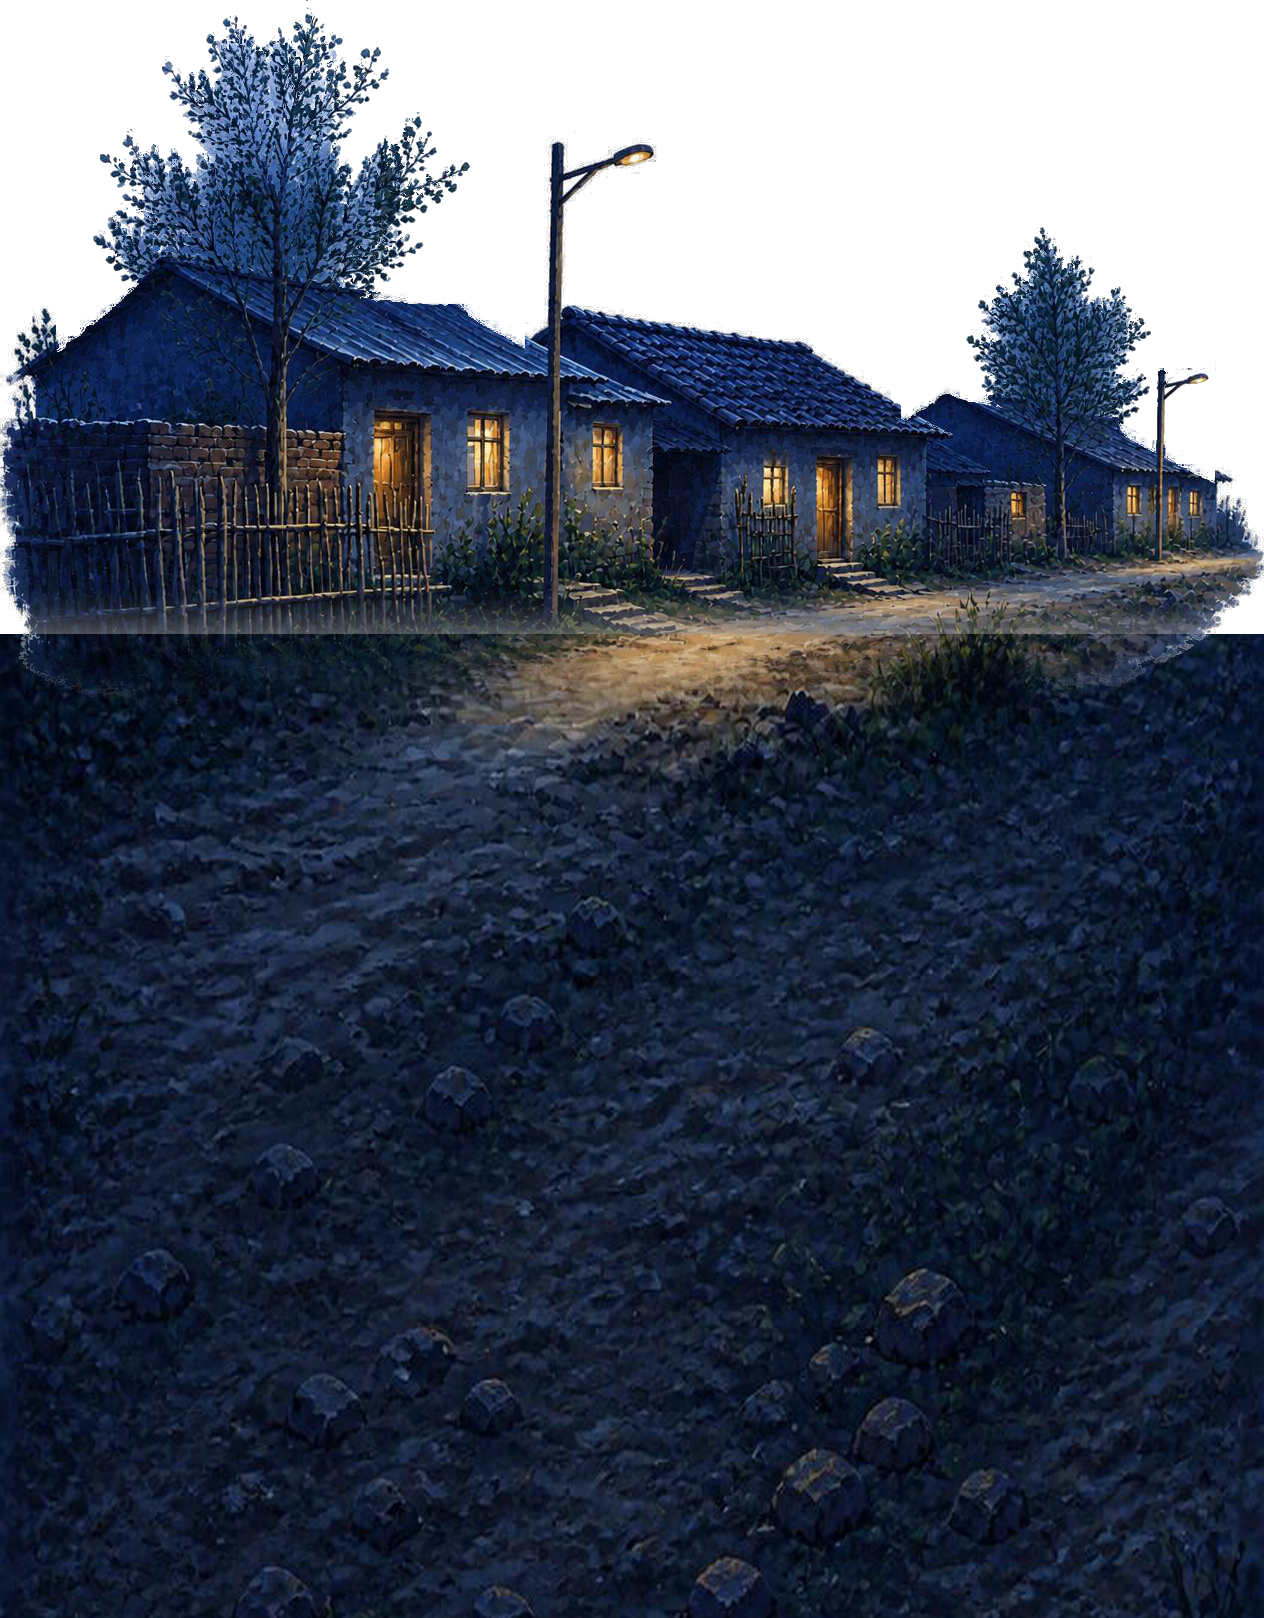
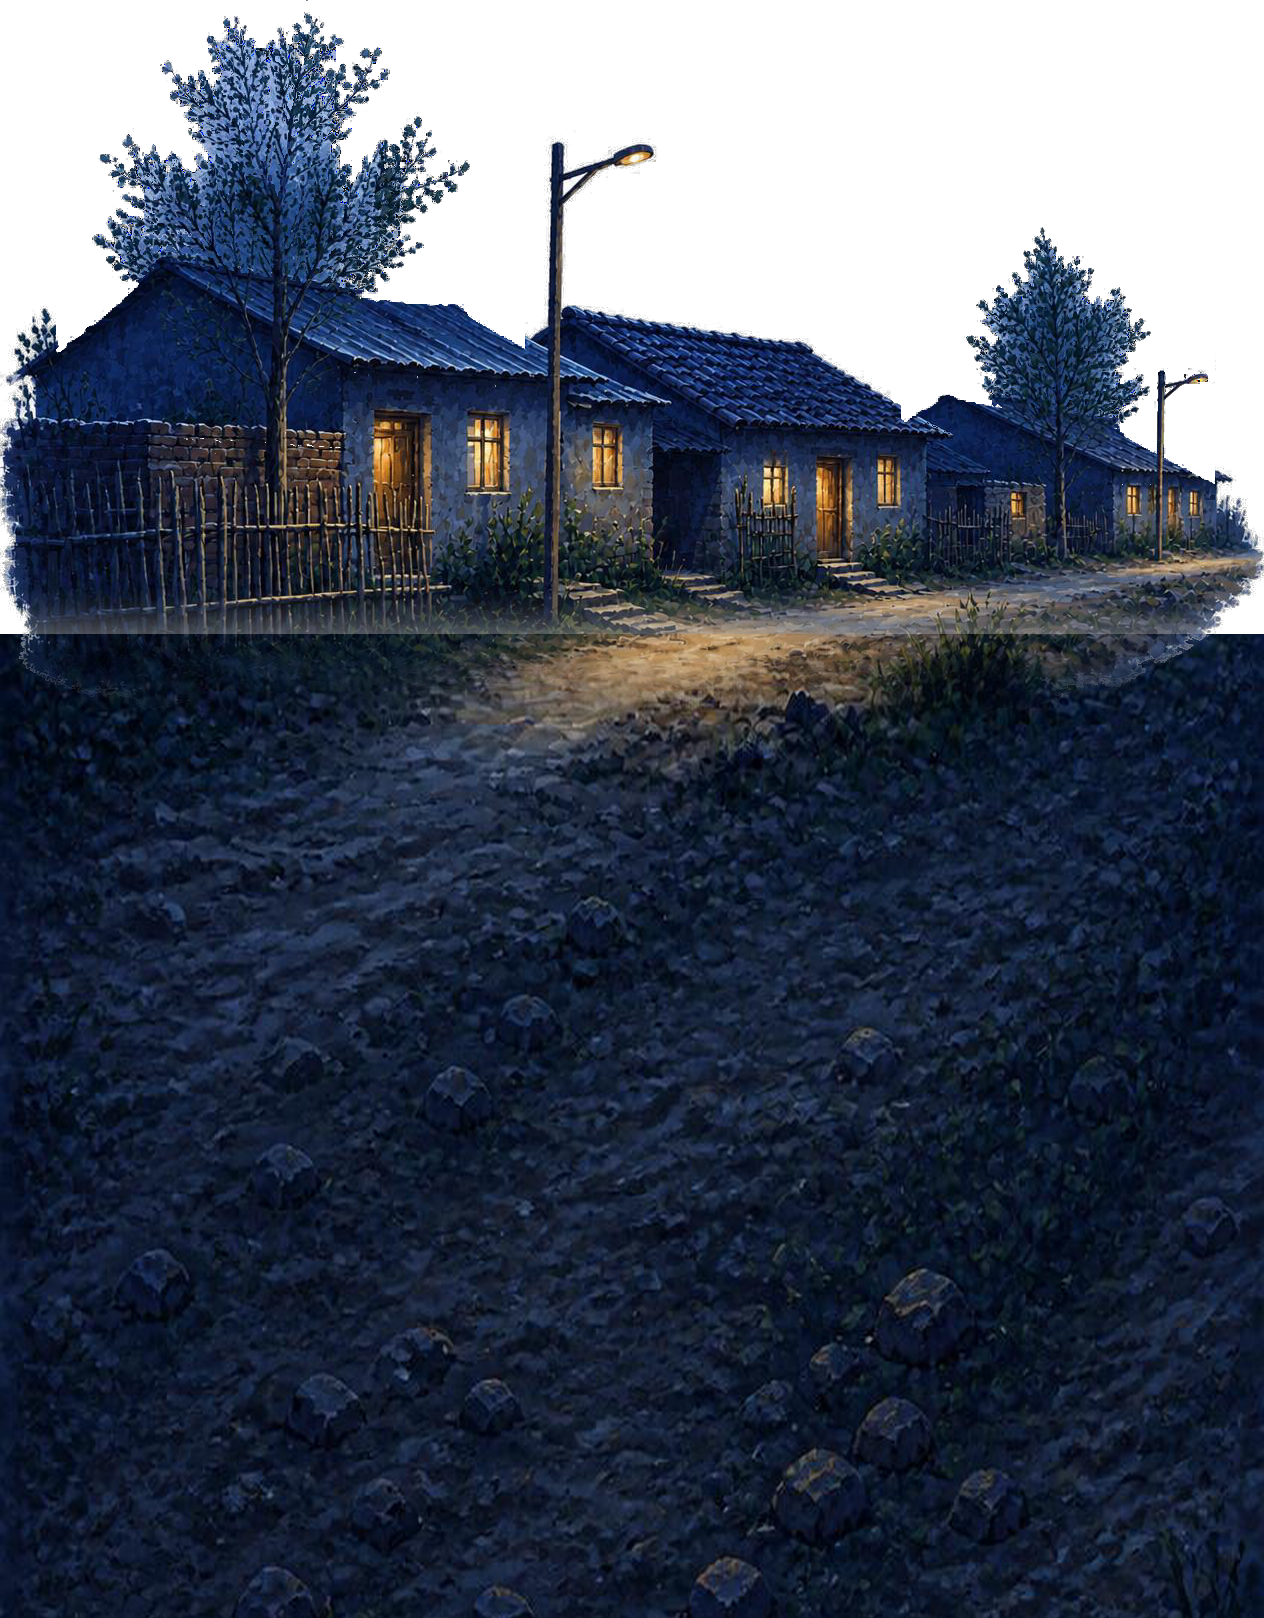
Stabilize responsive parallax composition

diff --git a/src/components/village-parallax-scene.tsx b/src/components/village-parallax-scene.tsx
@@ -12,6 +12,7 @@ import { useReducedMotion } from "framer-motion";
 const PHASE_A_END = 0.38; // parallax assembly
 const PHASE_B_END = 0.68; // position locked, day -> night
 // phase C (0.68 -> 1): the following page rises over this pinned scene
+const SCENE_SCROLL_VH = 320;
 
 // Sun/moon share one quarter-circle arc: a center point below the
 // mountains, swept from 180deg (level with the center, off to the side)
@@ -36,6 +37,14 @@ function phaseT(start: number, end: number): string {
 function assembleY(fromVh: number, toVh: number): string {
   const t = phaseT(0, PHASE_A_END);
   return `calc((${fromVh} + (${toVh - fromVh}) * ${t}) * 1vh)`;
+}
+
+// The illustrations are naturally sized by viewport width. On ultrawide
+// windows that would also make them climb much too high. This correction
+// preserves their horizontal full bleed while keeping each tier's vertical
+// anchor equivalent to the approved ~1.36:1 reference viewport.
+function responsiveDepthOffset(artHeightVw: number, referenceHeightVh: number): string {
+  return `max(0px, calc(${artHeightVw}vw - ${referenceHeightVh}vh))`;
 }
 
 const DAYNIGHT_T = phaseT(PHASE_A_END, PHASE_B_END);
@@ -178,10 +187,47 @@ export function VillageParallaxScene() {
     const track = trackRef.current;
     if (!track) return;
     let raf = 0;
+    let celestialRaf = 0;
+    let celestialTarget = 0;
+    let celestialCurrent = 0;
+
+    const paintCelestial = (daynightT: number) => {
+      const sunPhase = Math.min(1, Math.max(0, daynightT / 0.5));
+      const moonPhase = Math.min(1, Math.max(0, (daynightT - 0.5) / 0.5));
+      const sunEase = sunPhase * sunPhase;
+      const moonEase = 1 - (1 - moonPhase) * (1 - moonPhase);
+      const arcOffset = (tArc: number) => {
+        const angleDeg = ARC_START_DEG + (ARC_END_DEG - ARC_START_DEG) * tArc;
+        const angleRad = (angleDeg * Math.PI) / 180;
+        return { x: ARC_RADIUS_VH * Math.cos(angleRad), y: -ARC_RADIUS_VH * Math.sin(angleRad) };
+      };
+      const sunArc = arcOffset(1 - sunEase);
+      const moonArc = arcOffset(moonEase);
+      track.style.setProperty("--sun-x", sunArc.x.toFixed(3));
+      track.style.setProperty("--sun-y", sunArc.y.toFixed(3));
+      track.style.setProperty("--moon-x", moonArc.x.toFixed(3));
+      track.style.setProperty("--moon-y", moonArc.y.toFixed(3));
+      track.style.setProperty("--sun-opacity", Math.min(1, Math.max(0, (1 - sunPhase) * 6)).toFixed(3));
+      track.style.setProperty("--moon-opacity", Math.min(1, Math.max(0, moonPhase * 6)).toFixed(3));
+    };
+
+    const animateCelestial = () => {
+      celestialCurrent += (celestialTarget - celestialCurrent) * 0.22;
+      if (Math.abs(celestialTarget - celestialCurrent) < 0.0001) celestialCurrent = celestialTarget;
+      paintCelestial(celestialCurrent);
+      if (celestialCurrent !== celestialTarget) {
+        celestialRaf = requestAnimationFrame(animateCelestial);
+      } else {
+        celestialRaf = 0;
+      }
+    };
+
     const update = () => {
       const rect = track.getBoundingClientRect();
-      const total = rect.height - window.innerHeight;
-      const progress = total > 0 ? Math.min(1, Math.max(0, -rect.top / total)) : 0;
+      // Keep the original movement speed even though the track now includes
+      // an additional sticky tail for the page-over-scene reveal.
+      const timeline = window.innerHeight * (SCENE_SCROLL_VH / 100);
+      const progress = timeline > 0 ? Math.min(1, Math.max(0, -rect.top / timeline)) : 0;
       const daynightT = Math.min(1, Math.max(0, (progress - PHASE_A_END) / (PHASE_B_END - PHASE_A_END)));
       // Sun and moon each get their OWN half of the transition (0-0.5 and
       // 0.5-1) for their full arc traversal, not the whole 0-1 span — so
@@ -190,13 +236,6 @@ export function VillageParallaxScene() {
       // rises through its own half. Splitting it this way is what makes
       // them visibly swap AT the horizon instead of the sun fading out
       // while still high up and the moon fading in already part-risen.
-      const sunPhase = Math.min(1, Math.max(0, daynightT / 0.5));
-      const moonPhase = Math.min(1, Math.max(0, (daynightT - 0.5) / 0.5));
-      // Ease-IN for the dip (accelerating down), ease-OUT for the rise
-      // (decelerating into place) — reversible for free since both are
-      // pure functions of scroll position, not stateful velocity.
-      const sunEase = sunPhase * sunPhase;
-      const moonEase = 1 - (1 - moonPhase) * (1 - moonPhase);
       track.style.setProperty("--scene-progress", progress.toString());
       // Quarter-circle arc: a shared center sits below the mountains: at
       // t_arc=0 the point is level with the center, off to one side
@@ -205,25 +244,8 @@ export function VillageParallaxScene() {
       // is a 90 degree arc that reads as rising up AND to the right, not
       // a straight vertical line — computed here (not in CSS) since plain
       // calc() has no trig functions to rely on.
-      const arcOffset = (tArc: number) => {
-        const angleDeg = ARC_START_DEG + (ARC_END_DEG - ARC_START_DEG) * tArc;
-        const angleRad = (angleDeg * Math.PI) / 180;
-        return { x: ARC_RADIUS_VH * Math.cos(angleRad), y: -ARC_RADIUS_VH * Math.sin(angleRad) };
-      };
-      const sunArc = arcOffset(1 - sunEase);
-      const moonArc = arcOffset(moonEase);
-      track.style.setProperty("--sun-x", sunArc.x.toFixed(2));
-      track.style.setProperty("--sun-y", sunArc.y.toFixed(2));
-      track.style.setProperty("--moon-x", moonArc.x.toFixed(2));
-      track.style.setProperty("--moon-y", moonArc.y.toFixed(2));
-      // Opacity stays fully visible through most of the dip/rise, fading
-      // only right at the horizon end of each body's own phase — reads as
-      // "sinks down, then disappears behind the mountains" / "emerges
-      // from behind the mountains, then rises", not an independent fade.
-      const sunOpacity = Math.min(1, Math.max(0, (1 - sunPhase) * 6));
-      const moonOpacity = Math.min(1, Math.max(0, moonPhase * 6));
-      track.style.setProperty("--sun-opacity", sunOpacity.toFixed(3));
-      track.style.setProperty("--moon-opacity", moonOpacity.toFixed(3));
+      celestialTarget = daynightT;
+      if (!celestialRaf) celestialRaf = requestAnimationFrame(animateCelestial);
       raf = 0;
     };
     const onScroll = () => {
@@ -236,6 +258,7 @@ export function VillageParallaxScene() {
       window.removeEventListener("scroll", onScroll);
       window.removeEventListener("resize", onScroll);
       if (raf) cancelAnimationFrame(raf);
+      if (celestialRaf) cancelAnimationFrame(celestialRaf);
     };
   }, []);
 
@@ -309,7 +332,7 @@ export function VillageParallaxScene() {
   const moonRestTop = `${ARC_CENTER_Y_VH}vh`;
 
   return (
-    <div ref={trackRef} className="relative h-[420vh]" style={{ ["--scene-progress" as string]: "0" }}>
+    <div ref={trackRef} className="relative h-[570vh]" style={{ ["--scene-progress" as string]: "0" }}>
       <section
         ref={stageRef}
         className="sticky top-0 h-screen w-full overflow-hidden"
@@ -359,7 +382,7 @@ export function VillageParallaxScene() {
           aria-hidden
           className="pointer-events-none absolute aspect-square w-[10vw] max-w-[132px] min-w-[64px]"
           style={{
-            zIndex: 3,
+            zIndex: 1,
             left: reduceMotion ? sunRestLeft : arcLeft("--sun-x"),
             top: reduceMotion ? sunRestTop : arcTop("--sun-y"),
             opacity: reduceMotion ? 1 : "var(--sun-opacity, 1)",
@@ -376,7 +399,7 @@ export function VillageParallaxScene() {
           aria-hidden
           className="pointer-events-none absolute aspect-square w-[9vw] max-w-[118px] min-w-[58px]"
           style={{
-            zIndex: 3,
+            zIndex: 1,
             left: reduceMotion ? moonRestLeft : arcLeft("--moon-x"),
             top: reduceMotion ? moonRestTop : arcTop("--moon-y"),
             opacity: reduceMotion ? 0 : "var(--moon-opacity, 0)",
@@ -397,7 +420,7 @@ export function VillageParallaxScene() {
           aria-hidden
           className="pointer-events-none absolute inset-0 overflow-hidden"
           style={{
-            zIndex: 3,
+            zIndex: 1,
             opacity: reduceMotion ? 0.74 : `calc(1 - ${phaseT(0.18, 0.3)})`,
             transform: reduceMotion
               ? "none"
@@ -439,7 +462,7 @@ export function VillageParallaxScene() {
           entranceStyle={off(36)}
           enteredStyle={on}
           delayMs={0}
-          scrollY={assembleY(26, 23)}
+          scrollY={`calc(${assembleY(26, 23)} + ${responsiveDepthOffset(61.8, 84)})`}
           pointerAmp={[6, 3]}
           scaleBuffer={1.04}
         >
@@ -468,7 +491,7 @@ export function VillageParallaxScene() {
           entranceStyle={off(36)}
           enteredStyle={on}
           delayMs={180}
-          scrollY={assembleY(4, -9)}
+          scrollY={`calc(${assembleY(4, -9)} + ${responsiveDepthOffset(26.1, 36)})`}
           pointerAmp={[13, 6]}
           scaleBuffer={1.14}
         >
@@ -492,7 +515,7 @@ export function VillageParallaxScene() {
         <div aria-hidden className="pointer-events-none absolute bottom-0 left-0 w-full" style={{ zIndex: 4 }}>
           <div
             className="relative origin-bottom scale-[1.14]"
-            style={{ transform: `translate3d(${pointer(22, 4).x}, calc(${assembleY(85, 3)} + ${pointer(22, 4).y}), 0)` }}
+            style={{ transform: `translate3d(${pointer(22, 4).x}, calc(${assembleY(85, 3)} + ${responsiveDepthOffset(62.6, 86)} + ${pointer(22, 4).y}), 0)` }}
           >
             <DayNightPair
               day="/images/parallax-main-village-day.png"

diff --git a/scripts/clean-foreground-foliage.js b/scripts/clean-foreground-foliage.js
@@ -133,12 +133,15 @@ async function recoverNightFoliage(rawNightPath, nightPath) {
   }
 
   const output = Buffer.from(night.data);
-  // The source background is a sampled #fdfdfd, not pure white. Remove only
-  // pixels still close to that canvas colour. This is a subtractive cleanup
-  // of the remaining matte rather than a new silhouette extraction, so every
-  // already-cut leaf and branch keeps its existing coverage and colour.
+  // The source background is sampled #fdfdfd. A pixel remains foliage when
+  // either its distance from that canvas OR its blue/green chroma supports
+  // it. Combining both signals removes neutral pale inter-branch islands but
+  // retains thin coloured twigs and leaf edges that distance alone can lose.
   const backgroundLevel = 253;
-  const matteDistance = 30;
+  const transparentDistance = 100;
+  const opaqueDistance = 180;
+  const transparentChroma = 12;
+  const opaqueChroma = 38;
 
   for (let y = 0; y < Math.min(raw.info.height, HEIGHT); y += 1) {
     for (let x = 0; x < WIDTH; x += 1) {
@@ -149,12 +152,13 @@ async function recoverNightFoliage(rawNightPath, nightPath) {
       const red = raw.data[sourcePixel];
       const green = raw.data[sourcePixel + 1];
       const blue = raw.data[sourcePixel + 2];
-      const whiteDistance = backgroundLevel - Math.min(red, green, blue);
-      if (whiteDistance > matteDistance) continue;
-
-      let alpha = Math.max(0, Math.min(1, whiteDistance / matteDistance));
-      alpha = alpha * alpha * (3 - 2 * alpha);
-      const cleanedAlpha = Math.min(output[outputPixel + 3], Math.round(alpha * 255));
+      const whiteDistance = Math.hypot(backgroundLevel - red, backgroundLevel - green, backgroundLevel - blue);
+      const chroma = Math.max(red, green, blue) - Math.min(red, green, blue);
+      let distanceAlpha = Math.max(0, Math.min(1, (whiteDistance - transparentDistance) / (opaqueDistance - transparentDistance)));
+      let chromaAlpha = Math.max(0, Math.min(1, (chroma - transparentChroma) / (opaqueChroma - transparentChroma)));
+      distanceAlpha = distanceAlpha * distanceAlpha * (3 - 2 * distanceAlpha);
+      chromaAlpha = chromaAlpha * chromaAlpha * (3 - 2 * chromaAlpha);
+      const cleanedAlpha = Math.round(Math.max(distanceAlpha, chromaAlpha) * 255);
       output[outputPixel + 3] = cleanedAlpha;
       if (cleanedAlpha === 0) {
         output[outputPixel] = 0;

diff --git a/src/app/page.tsx b/src/app/page.tsx
@@ -1,5 +1,4 @@
 import { SiteNav } from "@/components/site-nav";
-import { ScrollLightLine } from "@/components/scroll-light-line";
 import { VillageParallaxScene } from "@/components/village-parallax-scene";
 import { HeroScene } from "@/components/hero-scene";
 import { ActSection } from "@/components/act-section";
@@ -12,15 +11,15 @@ export default function Home() {
   return (
     <>
       <SiteNav />
-      <ScrollLightLine />
       <main>
         <div id="top" />
         <VillageParallaxScene />
-        {/* The final 102.4vh of the village track is its phase-C reveal.
-            Pulling the next page upward by that exact distance lets the
-            page itself—not a synthetic full-screen black block—rise over
-            the pinned night landscape. */}
-        <div className="relative z-10 -mt-[102.4vh]">
+        {/* Scene animation still occupies its original 320vh scroll span.
+            The longer sticky tail lets this real next page finish travelling
+            over the night scene before the village can unpin and move with
+            it. At phase B's endpoint this wrapper is exactly one viewport
+            below the top, so wheat cannot arrive early. */}
+        <div className="relative z-10 -mt-[252.4vh]">
           <HeroScene />
         </div>
 
